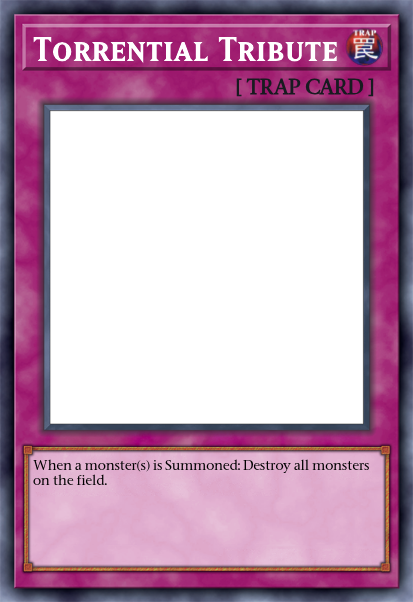
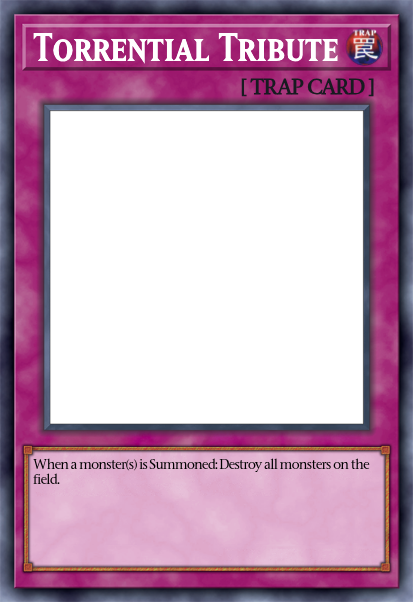
Apply the selected card typography profile as project defaults

Changed region(s): [[0.523, 0.0299, 0.9007, 0.1794], [0.0581, 0.7475, 0.9007, 0.8073], [0.0872, 0.0299, 0.4939, 0.1196]]

diff --git a/platform-design/renderer/tester.js b/platform-design/renderer/tester.js
@@ -1,7 +1,7 @@
 "use strict";
 (async () => {
   const $ = (id) => document.getElementById(id);
-  const { DEFAULT_STYLE, normalizeStyle } = window.CardStyles;
+  const { normalizeStyle } = window.CardStyles;
   const { composeCard } = window.CardRenderer;
   const standalone = Boolean($("tester-data"));
   const state = standalone
@@ -263,7 +263,7 @@
     $("card").closest(".preview").style.maxWidth = $("zoom").value + "px";
   };
   $("reset").onclick = () => {
-    style = normalizeStyle(DEFAULT_STYLE);
+    style = normalizeStyle(state.defaults || state.style);
     generation++;
     allControls();
     render();

diff --git a/platform-design/renderer/README.md b/platform-design/renderer/README.md
@@ -68,7 +68,8 @@ move controls.
 - **Export style + fonts** produces a portable `card-render-style.json`. Import
   it on another server, then save, or send it back in the chat to update the
   project's defaults in `style.default.json`. A saved local profile takes
-  precedence over project defaults. **Reset controls** is preview-only until saved.
+  precedence over project defaults. **Reset controls** restores the project
+  defaults in the preview; save to apply them to the server.
 
 You can also generate a **single-file offline tester**, with all default frames,
 icons, fonts and rendering code embedded:
@@ -108,9 +109,9 @@ remains a placeholder.
 
 - Names are white for Spell, Trap and Xyz frames, including Xyz Pendulum, and
   black for all other frames, including Link.
-- Names use an 80 px small-cap face and compress horizontally when necessary.
-  Their rendered strokes are softened slightly because the bundled font's bold
-  outlines are baked in. Glyph shape, height and spacing stay unchanged.
+- The selected project profile in `style.default.json` uses the bundled small-cap
+  name face at 95 px, with −2 px letter spacing and stroke coverage set to 1.
+  Long names still compress horizontally when necessary.
 - The supplied frames provide the artwork bevels, text boxes, backgrounds and
   outer borders directly. No recoloring, border reconstruction or extra text-box
   texture is applied. The large transparent Pendulum overlay preserves the
@@ -119,9 +120,13 @@ remains a placeholder.
 - Normal Monster flavor text is always italic, including the main text of Normal
   Pendulum Monsters. Pendulum effects keep their separate typography. This rule
   also applies to the earlier layered and schematic profiles.
-- Ordinary effect text starts at 26 px instead of 21 px. Line breaks use measured
-  font widths. Dense effects reduce gradually to 16 px to fit the available area.
-  Pendulum and monster effects keep separate regions, and stats retain their space.
+- Main text starts at 25 px with −1 px letter spacing and reduces to 17 px for
+  dense effects. Pendulum text retains 26 px with a 16 px minimum. Line breaks use
+  measured font widths. Pendulum and monster effects keep separate regions.
+- Stars use 50 px icons with 4 px gaps. Stat values use 29 px text, anchored at
+  ATK x=577 and DEF/Link x=744, with baseline y=1105.5. Spell/Trap type uses
+  40.5 px text. All settings match the supplied `card-render-style (1).json`;
+  the existing bundled fonts are retained.
 - Normal Spell/Trap headers align to the right without reserving an empty subtype
   icon slot. Their subtype icons remain separate when present.
 
